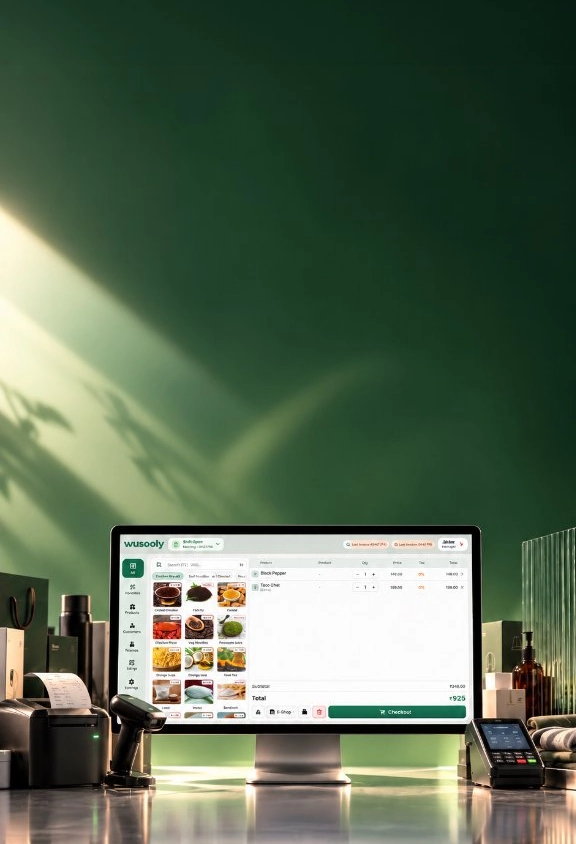
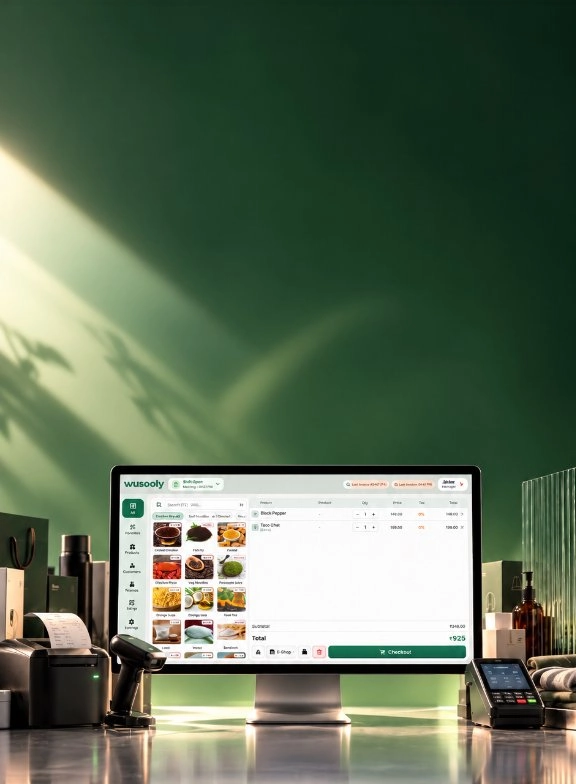
fix(mobile): crop additional 60px of top wall for tighter hero framing

Changed region(s): [[0.0, 0.1224, 1.0, 0.949]]

diff --git a/app/page.js b/app/page.js
@@ -240,7 +240,7 @@ export default function Home() {
               sizes="(max-width: 768px) 1px, 100vw"
             />
             <Image
-              src="/assets/hero-retail-pos-mobile-v5.webp"
+              src="/assets/hero-retail-pos-mobile-v6.webp"
               alt="Wusooly POS display in clean forest-green studio mobile view"
               fill
               priority
@@ -266,7 +266,7 @@ export default function Home() {
               sizes="(max-width: 768px) 1px, 100vw"
             />
             <Image
-              src="/assets/hero-cafe-pos-mobile-v5.webp"
+              src="/assets/hero-cafe-pos-mobile-v6.webp"
               alt="Wusooly Café POS studio setup mobile view"
               fill
               priority
